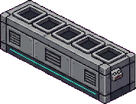
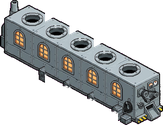
通常工場(normal)の製造機を新しい基準シートに差し替えた
これまで normal は投入口を検出できず旧方式(幅合わせ)だった。無地の灰色鋼シートを
入れて検出器を足したので、他テーマと同じ合成パイプラインに乗った。
送りは全サイズ 24.330px ぴったり、4サイズでデザイン完全一致。

diff --git a/tools/cut_machines.py b/tools/cut_machines.py
@@ -51,6 +51,7 @@ MIN_AREA = 2000               # これ未満の連結成分はゴミとして捨
 # 投入口(素材を置く場所)の色。テーマごとに違うので判定を持たせる。
 # 未登録のテーマは較正できないので、従来どおり幅合わせにフォールバックする。
 SPOT_TEST = {
+    'normal':    lambda p: p[3] > 128 and max(p[:3]) < 60,                                                    # 鋼の投入口の暗い内側
     'halloween': lambda p: p[3] > 128 and max(p[:3]) < 60,                                                    # ホッパーの暗い口
     'scifi':     lambda p: p[3] > 128 and max(p[:3]) < 70,                                                    # 吸気リングの暗い口
     'egypt':     lambda p: p[3] > 128 and 190 < p[0] < 232 and 118 < p[1] < 158 and p[2] < 45,                 # 漏斗の内側(琥珀)
